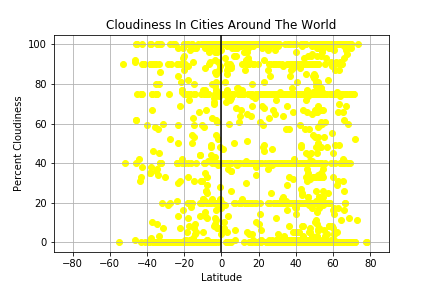
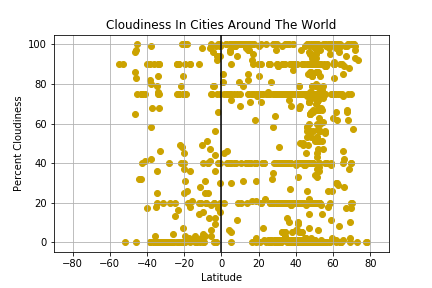
updated color and editing background

Changed region(s): [[0.2708, 0.125, 0.8727, 0.875]]

diff --git a/web_visualization_weather_dashboard/comparisons.html b/web_visualization_weather_dashboard/comparisons.html
@@ -16,7 +16,7 @@
     <!-- It's good to put all the code before the scripts so the user experience is smooth and fast. -->
     <!-- First comes a navbar from Bootstrap! -->
     
-  <div class="view" style="background-image: url('world_map_of_cities.JPG'); background-size: cover; background-position: center center;">
+  <div class="view" style="background-image: url('world_map_of_cities.JPG'); background-repeat: no-repeat; background-size: cover; background-position: center center;">
 
   <!-- NAVBAR START -->
   <nav class="navbar navbar-expand-lg navbar-light bg-light thmgrad">
